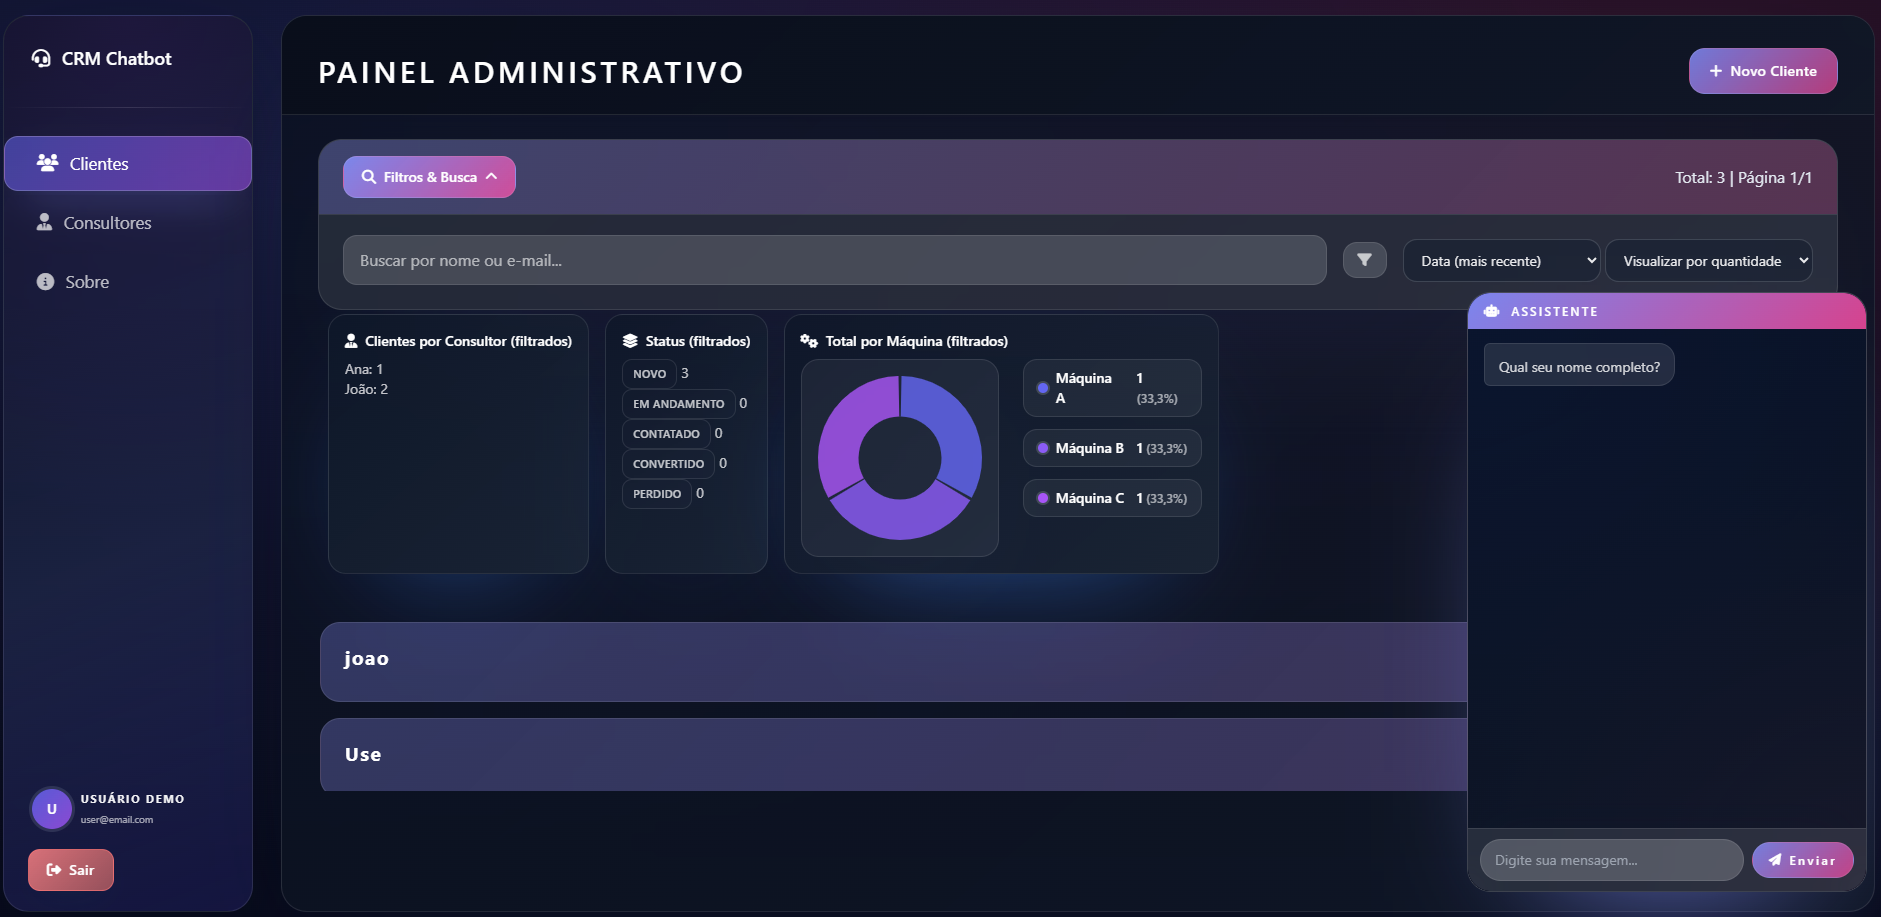
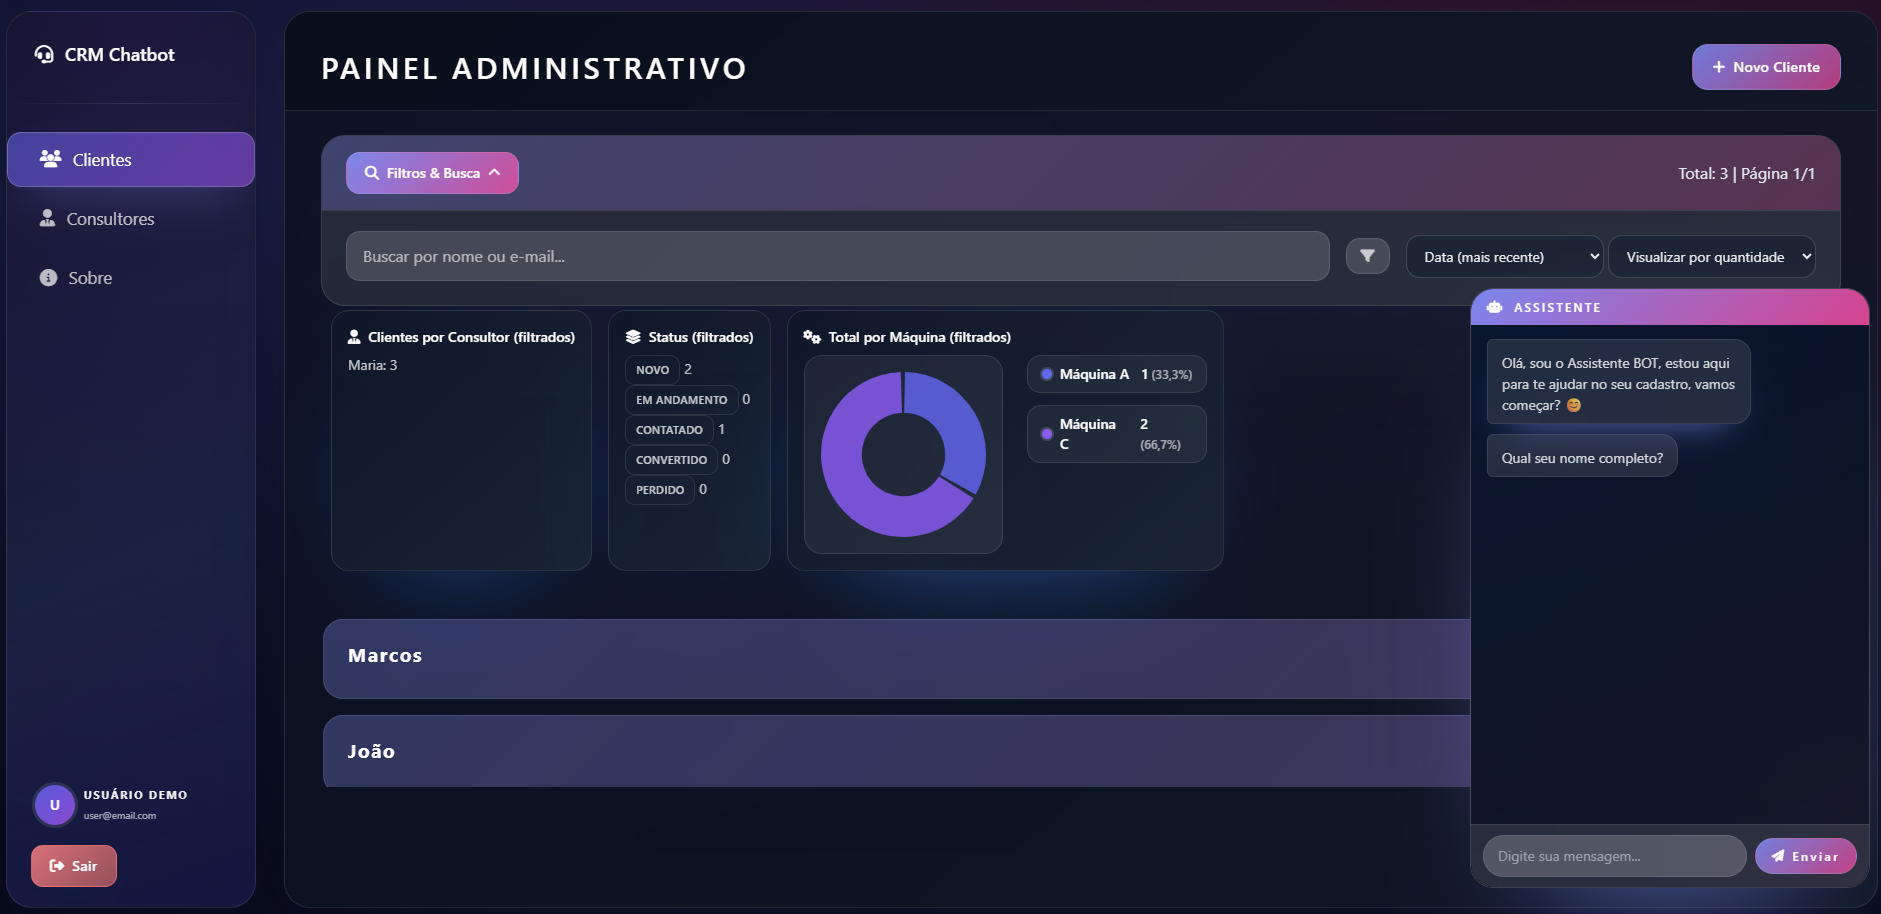
fix(ui): corrected accent mark rendering issue
Fixed a visual bug where accented characters (á, é, í, ó, ú, etc.) were not appearing or displaying properly on the site.

diff --git a/public/js/chatbot/flow.js b/public/js/chatbot/flow.js
@@ -20,7 +20,7 @@ export class ChatbotFlow {
     this.currentQuestion = 0;
     this.leadData = { nome:'', email:'', telefone:'', cidade:'', maquina:'', horario:'' };
     this._bind();
-  loadI18n(localStorage.getItem('crm-lang')).then(()=> botMessage(this.messagesEl, questions[this.currentQuestion].text));
+    loadI18n(localStorage.getItem('crm-lang')).then(() => this._startConversation());
   }
 
   _bind() {
@@ -35,6 +35,15 @@ export class ChatbotFlow {
     userMessage(this.messagesEl, text);
     this.inputEl.value = '';
     this.processAnswer(text);
+  }
+
+  _startConversation() {
+    botMessage(this.messagesEl, 'Olá, sou o Assistente BOT, estou aqui para te ajudar no seu cadastro, vamos começar? 😊');
+    const typing = mostrarDigitando(this.messagesEl);
+    setTimeout(() => {
+      removerDigitando(typing);
+      botMessage(this.messagesEl, questions[this.currentQuestion].text);
+    }, 850);
   }
 
   processAnswer(answer) {
@@ -146,7 +155,7 @@ export class ChatbotFlow {
     this.messagesEl.innerHTML = '';
     this.currentQuestion = 0;
     this.leadData = { nome:'', email:'', telefone:'', cidade:'', maquina:'', horario:'' };
-    botMessage(this.messagesEl, questions[this.currentQuestion].text);
+    this._startConversation();
   }
 
   _setInputError() {

diff --git a/tests/normalizer.test.js b/tests/normalizer.test.js
@@ -12,11 +12,9 @@ describe('Normalizers', () => {
   test('trimString remove múltiplos espaços', () => {
     expect(trimString('  Ola   Mundo  ')).toBe('Ola Mundo');
   });
-  test('normalizeNomeCidade remove caracteres inválidos e normaliza acentos', () => {
-    // A função atual normaliza NFD e remove caracteres não permitidos; acentos são preservados
-    // mas na sequência regex remove caracteres estranhos. Dependendo do ambiente de unicode pode haver remoção.
+  test('normalizeNomeCidade preserva acentos e remove caracteres inválidos', () => {
     const result = normalizeNomeCidade('São@@ Paulo!!');
-    expect(['São Paulo','Sao Paulo']).toContain(result);
+    expect(result).toBe('São Paulo');
   });
   test('normalizeEmail lowercase & trim', () => {
     expect(normalizeEmail('  USER@Mail.Com ')).toBe('user@mail.com');

diff --git a/public/js/shared/validatorCore.js b/public/js/shared/validatorCore.js
@@ -3,7 +3,7 @@ import { clienteSchema as clienteSchemaRaw } from './cliente-schema.js';
 
 // Normalizadores replicados (mantidos simples e alinhados ao backend)
 function trimString(v){ return typeof v === 'string' ? v.replace(/\s+/g,' ').trim() : ''; }
-function normalizeNomeCidade(v){ return trimString(v).normalize('NFD').replace(/[^A-Za-zÀ-ÿ'\-\s]/g,'').replace(/\s{2,}/g,' '); }
+function normalizeNomeCidade(v){ const base = trimString(v); if(!base) return ''; return base.replace(/[^\p{L}\p{M}'\-\s]/gu,'').replace(/\s{2,}/g,' '); }
 function normalizeEmail(v){ return trimString(v).toLowerCase(); }
 function normalizeTelefone(v){ return String(v||'').replace(/\D/g,''); }
 function normalizeMaquina(v){ return trimString(v).replace(/[^A-Za-z0-9À-ÿ\- _]/g,'').slice(0,80); }

diff --git a/utils/normalizer.js b/utils/normalizer.js
@@ -7,9 +7,10 @@ function trimString(v) {
 }
 
 function normalizeNomeCidade(v) {
-  return trimString(v)
-    .normalize('NFD')
-    .replace(/[^A-Za-zÀ-ÿ'\-\s]/g, '')
+  const base = trimString(v);
+  if (!base) return '';
+  return base
+    .replace(/[^\p{L}\p{M}'\-\s]/gu, '')
     .replace(/\s{2,}/g, ' ');
 }
 
